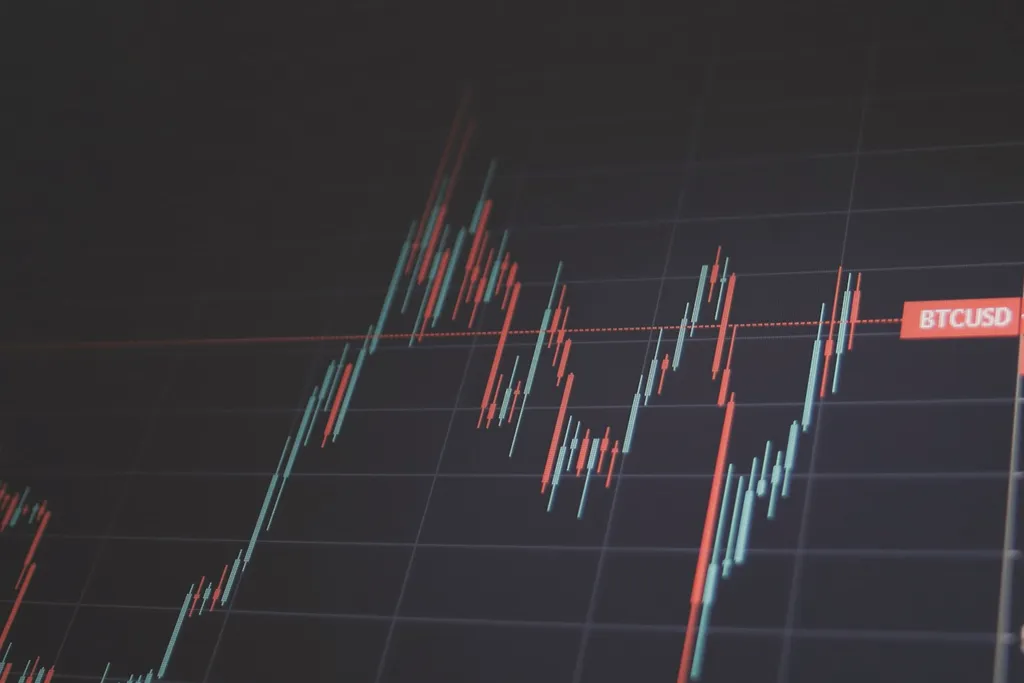
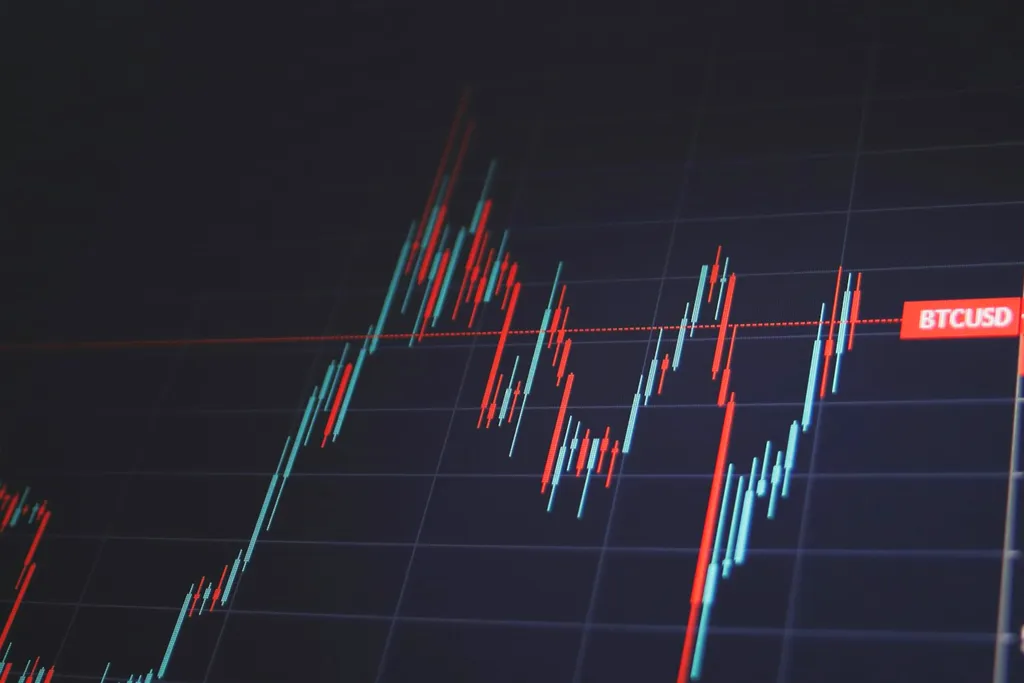
fix(eden): two-line case titles, even Ondo split, trimmed quote, new dinner tile
Homepage case cards get shorter titles (cardTitle; case pages keep the full
ones) that fit two lines on every laptop. The Ondo photo is rebuilt from the
real Squawk Box frame as an even 50/50 split with both heads the same size (no
generated faces). Ben Grossman's quote is cut, not reworded, to match Devon's
length at every width. The dinner grid's empty-table tile becomes a guest at
the table. Digital Assets gets its colour and contrast back; Frontier is
brighter again.

Claude-Session: https://claude.ai/code/session_01AVuXZ5kQdp4DsNtLwqtREc

diff --git a/src/pages/home.js b/src/pages/home.js
@@ -60,9 +60,11 @@ const PRESS_HEIGHTS = {
 // (https://unsplash.com/photos/aKioE8ayPZs), cut below the sculpted frieze;
 // Digital Assets: "Screen showing bitcoin trading chart" by Nick Chong
 // (https://unsplash.com/photos/N__BnvQ_w18), cut to the candles and the
-// BTCUSD tag so the dated 2020 price stays out of frame; both Unsplash
+// BTCUSD tag so the dated 2020 price stays out of frame, saturation and
+// contrast lifted (Joe, 2026-10-21: it read faded); both Unsplash
 // License, free for commercial use. Frontier Technology: NASA ISS photo
-// iss075e0099858 (public domain, Wikimedia Commons), brightened; contact band:
+// iss075e0099858 (public domain, Wikimedia Commons), brightened twice (Joe,
+// 2026-10-21); contact band:
 // "Sunset in New York City" by Joseph Barrientos (CC0, Wikimedia Commons).
 const INDUSTRY_IMAGES = {
   'Financial Services': { base: 'industry-financial-services', alt: 'Classical columns under a stone cornice, lit by golden evening sun' },
@@ -72,9 +74,11 @@ const INDUSTRY_IMAGES = {
 
 // Homepage crops of each case study photo: 16:9, cut inside the broadcast
 // frame so no channel logo or news bar is sliced, and wide enough to stay
-// sharp on retina screens. Ondo: Andrew Ross Sorkin and the Ondo guest from
-// the Squawk Box frame Eden already uses (ondo-cnbc-squawk-box.jpg, the only
-// copy found; resized up with Lanczos). Stellar: the full-size CNBC still of
+// sharp on retina screens. Ondo: a 50/50 split rebuilt from the Squawk Box
+// frame Eden already uses (ondo-cnbc-squawk-box.jpg, the only copy found):
+// Andrew Ross Sorkin left, the Ondo guest right, each box cropped so both heads
+// are the same size (Joe, 2026-10-21), resized up with Lanczos. Real frame, no
+// generated faces. Stellar: the full-size CNBC still of
 // the same Dixon photo Eden uses (image.cnbcfm.com 107399355-0410_Dixon_ISO,
 // 1920x1080). Grip: Eden's full-size team photo from its Webflow CDN.
 const CASE_IMAGES = {
@@ -201,7 +205,7 @@ function buildWork() {
         ` : `<img src="${cs.heroImage}" alt="" width="1200" height="800" loading="lazy" decoding="async">`}
       </div>
       <p class="t-label case__client">${clientName(cs)}</p>
-      <h3 class="t-card case__title"><a class="case__link" href="/case-studies/${cs.slug}">${cs.subtitle}</a></h3>
+      <h3 class="t-card case__title"><a class="case__link" href="/case-studies/${cs.slug}">${cs.cardTitle || cs.subtitle}</a></h3>
       <dl class="case__metrics">
         ${(cs.metrics || []).slice(0, 3).map(m => `
           <div class="case__metric"><dt>${m.label}</dt><dd>${m.number}</dd></div>
@@ -274,9 +278,11 @@ function buildDinners() {
             alt: 'Guests seated along a long candlelit table at a private Eden dinner',
           })}
           ${picture({
-            dir: DINNER_DIR, base: 'wintermute-dinner-room-table-set', widths: [640, 1024],
+            // A guest, not the empty table: the set table read as the wide
+            // photo's table without people (Joe, 2026-10-21).
+            dir: DINNER_DIR, base: 'wintermute-dinner-guest-at-table', widths: [640, 1024],
             sizes: '(max-width: 900px) 50vw, 25vw', width: 1600, height: 2240, className: 'dinners__photo',
-            alt: 'Private dining room set for dinner under a crystal chandelier',
+            alt: 'A guest listening during dinner',
           })}
           ${picture({
             dir: DINNER_DIR, base: 'wintermute-dinner-guests-conversation', widths: [640, 1024],

diff --git a/data/case-studies.js b/data/case-studies.js
@@ -13,6 +13,8 @@ export const caseStudies = [
     slug: 'ondo',
     title: 'Case Study: Ondo Finance',
     subtitle: 'How Eden established Ondo as the defining voice in tokenized securities',
+    // Homepage card title: shorter so it fits two lines on any laptop (Joe, 2026-10-21).
+    cardTitle: 'How Eden made Ondo the defining voice in tokenization',
     date: 'March 13, 2026',
     service: 'Communications Strategy',
     description: 'How Eden established Ondo as the defining voice in tokenized securities',
@@ -150,6 +152,7 @@ export const caseStudies = [
     slug: 'stellar-development-foundation',
     title: 'Case Study: Stellar Development Foundation',
     subtitle: 'How Eden helped a blockchain pioneer break into the global financial mainstream',
+    cardTitle: 'How Eden helped Stellar break into the financial mainstream',
     date: 'March 5, 2026',
     service: 'Media Relations',
     description: 'How Eden helped a blockchain pioneer break into the global financial mainstream',
@@ -248,6 +251,7 @@ export const caseStudies = [
     slug: 'grip-shipping',
     title: 'Case Study: Grip Shipping',
     subtitle: "Eden's campaign created a category leader in the refrigerated shipping sector",
+    cardTitle: 'How Eden made Grip a leader in refrigerated shipping',
     date: 'March 5, 2026',
     service: 'PR Strategy',
     description: "Eden's campaign created a category leader in the refrigerated shipping sector",

diff --git a/data/testimonials.js b/data/testimonials.js
@@ -1,6 +1,11 @@
+// Ben Grossman's quote is trimmed so it runs the same length as Devon's at
+// every width (Joe, 2026-10-21). Cut, nothing reworded: "Through our work with
+// Eden," and the closing "and emerged as the leader" (it repeated "leader").
+// Original ending: "...Through our work with Eden, we've gained more
+// visibility than our competitors and emerged as the leader."
 export const testimonials = [
   {
-    quote: 'Eden elevated Ondo from trade-only press to the share-of-voice leader in our category. They understood from day one what we wanted to achieve and knew exactly how to get us there. Through our work with Eden, we\'ve gained more visibility than our competitors and emerged as the leader.',
+    quote: 'Eden elevated Ondo from trade-only press to the share-of-voice leader in our category. They understood from day one what we wanted to achieve and knew exactly how to get us there. We\'ve gained more visibility than our competitors.',
     name: 'Ben Grossman',
     title: 'VP of Marketing',
     company: 'Ondo Finance',
